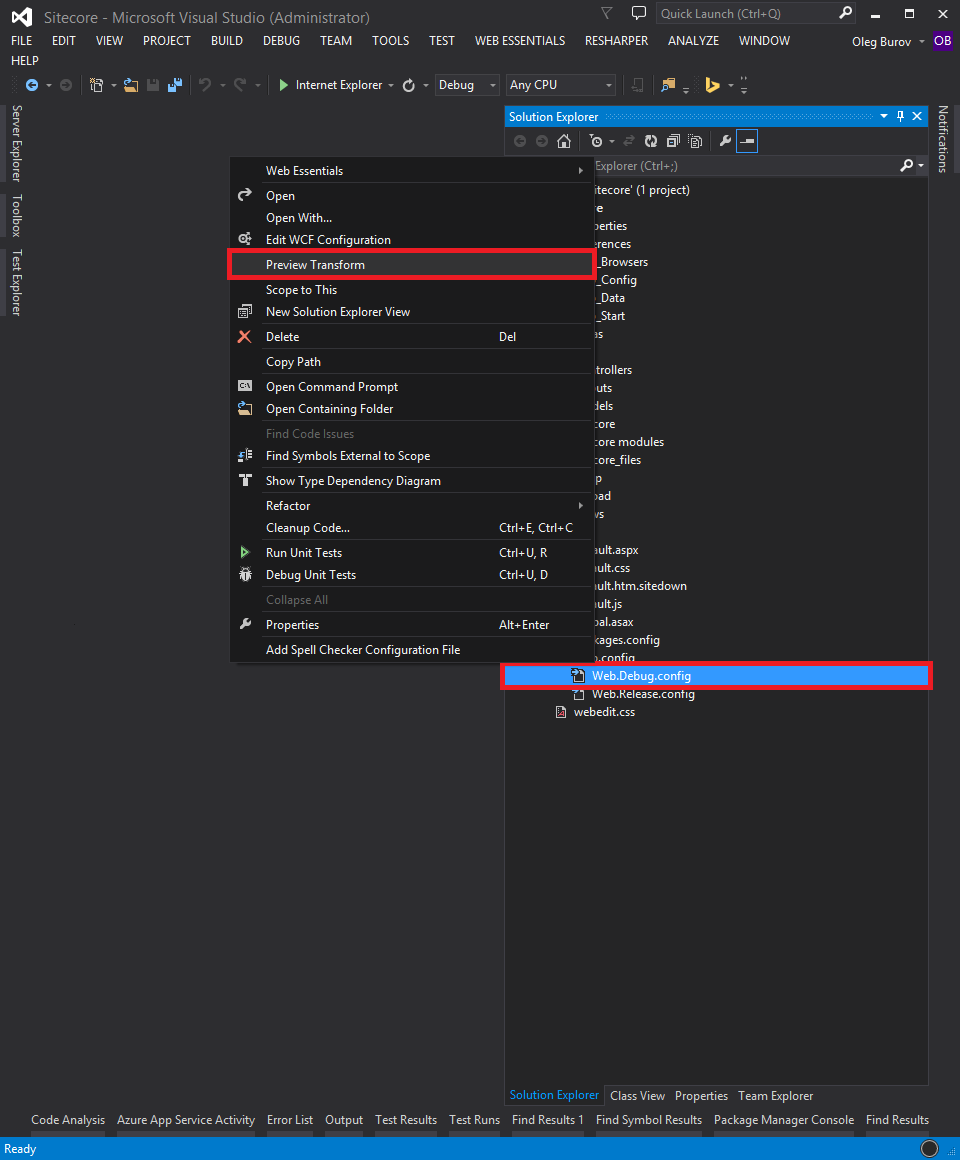
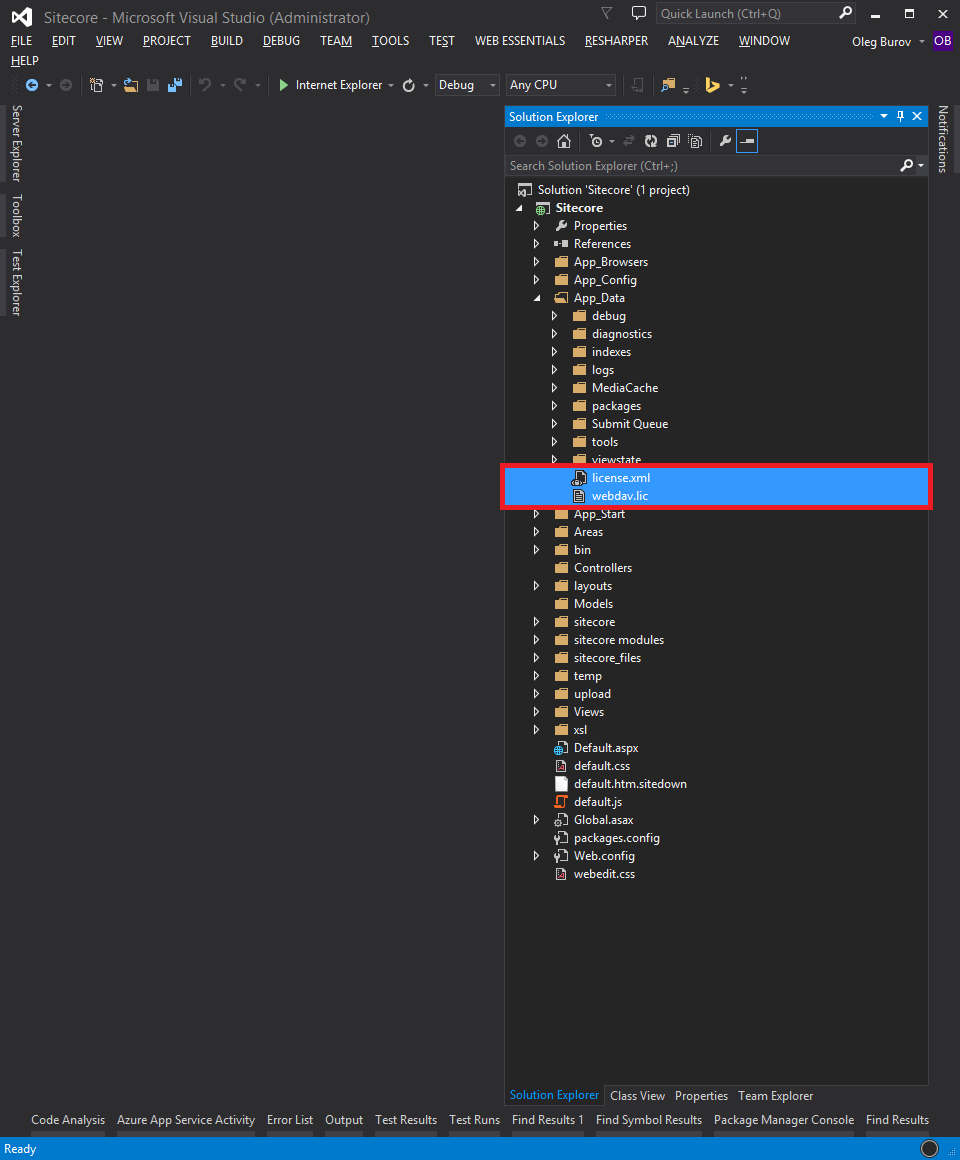
How to deploy Sitecore 8.1 solution to Microsoft Azure Web App using Visual Studio
1. Removed MongoDB connections and related information, since Sitecore
xDB Cloud must be used instead.
2. Cropped image and fixed its name.

Changed region(s): [[0.2188, 0.1241, 0.9688, 0.7759]]

diff --git a/articles/how-to-deploy-sitecore-81-solution-to-microsoft-azure-web-app-using-visual-studio.md b/articles/how-to-deploy-sitecore-81-solution-to-microsoft-azure-web-app-using-visual-studio.md
@@ -14,9 +14,8 @@ This article provides a list of techniques that can be used to deploy a Sitecore
   - [Azure Storage](https://msdn.microsoft.com/en-us/library/azure/gg433040.aspx)
   - [Azure SQL Database](https://msdn.microsoft.com/en-us/library/azure/ee336279.aspx)
 - Microsoft Visual Studio 2015
-- Microsoft Azure SDK 2.7.1 for .NET or newer 
+- Microsoft Azure SDK 2.8.2 for .NET or newer 
 - Microsoft SQL Server Management Studio 2014 or newer
-- MongoDB 2.6.1
 - Sitecore® Experience Platform™ 8.1 rev. 151207 (8.1 Update-1) or higher
 
 > **Note:** To download the latest version of the Microsoft Azure SDK and Tool for Visual Studio, follow this link: http://azure.microsoft.com/en-us/downloads/
@@ -56,9 +55,7 @@ The recommended approach to deploy a Sitecore solution to Microsoft Azure using 
    ![](./media/how-to-deploy-sitecore-81-solution-to-microsoft-azure-web-app-using-visual-studio/AzurePortal-WebApp-06.png)
    
    - In the **Connection strings** group:
-     + Add the `core`, `master`, `web` and `reporting` SQL Database connection strings.
-   > **Note:** `session` database isn't used as it is necessary for scaled deployments only.
-     + Add the `analytics`, `tracking.live`, `tracking.history` and `tracking.contact` MongoDB connection strings.   
+     + Add the `core`, `master` and `web` SQL Database connection strings. 
 
    ![](./media/how-to-deploy-sitecore-81-solution-to-microsoft-azure-web-app-using-visual-studio/AzurePortal-WebApp-07.png)
   
@@ -67,18 +64,10 @@ The recommended approach to deploy a Sitecore solution to Microsoft Azure using 
    ```xml
    Server=tcp:{server-name}.database.windows.net,1433;Database=Sitecore.Core;User ID={server-admin-login}@{server-name};Password={password};Trusted_Connection=False;Encrypt=True
    Server=tcp:{server-name}.database.windows.net,1433;Database=Sitecore.Master;User ID={server-admin-login}@{server-name};Password={password};Trusted_Connection=False;Encrypt=True
-   Server=tcp:{server-name}.database.windows.net,1433;Database=Sitecore.Web;User ID={server-admin-login}@{server-name};Password={password};Trusted_Connection=False;Encrypt=True
-   Server=tcp:{server-name}.database.windows.net,1433;Database=Sitecore.Reporting;User ID={server-admin-login}@{server-name};Password={password};Trusted_Connection=False;Encrypt=True
-   
-   mongodb://{user-name}:{password}@{host}/sitecore_analytics
-   mongodb://{user-name}:{password}@{host}/sitecore_tracking_lives
-   mongodb://{user-name}:{password}@{host}/sitecore_tracking_historys
-   mongodb://{user-name}:{password}@{host}/sitecore_tracking_contact 
+   Server=tcp:{server-name}.database.windows.net,1433;Database=Sitecore.Web;User ID={server-admin-login}@{server-name};Password={password};Trusted_Connection=False;Encrypt=True   
    ```
    
-   > **Note:** Use the above templates as an example of default Sitecore connection strings:
-   > - For SQL Database connection strings, replace the `{server-name}` with the name of your Azure SQL Database service. The `{server-admin-login}` and `{password}` with SQL Server account credentials. 
-   > - For MongoDB connection strings, replace the `{host}` with the URL of your Mongo service. The `{user-name}` and `{password}` with your Mongo account credentials.
+   > **Note:** Use the above templates as an example of default Sitecore connection strings. Replace the `{server-name}` with the name of your Azure SQL Database server. The `{server-admin-login}` and `{password}` with SQL Server account credentials.
    
 7. In the **ASP.NET Web Application** project, include the default Sitecore files, directories and subdirectories. 
 
@@ -138,7 +127,7 @@ The recommended approach to deploy a Sitecore solution to Microsoft Azure using 
    - \sitecore\shell\client\Speak\Assets\lib\core\2.0\SitecoreSpeak.ts
    - \sitecore\shell\client\Speak\Assets\lib\core\2.0\SitecoreSpeak.d.ts
     
-    ![](./media/how-to-deploy-sitecore-81-solution-to-microsoft-azure-web-app-using-visual-studio/VS-01.1.png)
+    ![](./media/how-to-deploy-sitecore-81-solution-to-microsoft-azure-web-app-using-visual-studio/VS-02.png)
     
    ```
    Project file must include the .NET Framework assembly 'WindowsBase, PresentationCore, PresentationFramework' in the reference list.    
@@ -155,7 +144,7 @@ The recommended approach to deploy a Sitecore solution to Microsoft Azure using 
    
 10. In the **ASP.NET Web Application** project, right-click the `App_Data` item. Add the `license.xml` and `webdav.lic` files using the **Add** -> **Existing Item...** command in the context menu.
 
-   ![](./media/how-to-deploy-sitecore-81-solution-to-microsoft-azure-web-app-using-visual-studio/VS-02.png)
+   ![](./media/how-to-deploy-sitecore-81-solution-to-microsoft-azure-web-app-using-visual-studio/VS-03.png)
  
 11. Right-click the **ASP.NET Web Application** project, and then click the **Publish...**  in the context menu. The **Publish Web** dialog box appears.     
 
